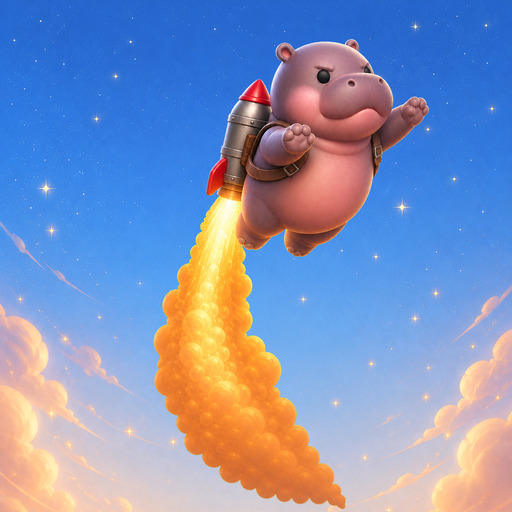
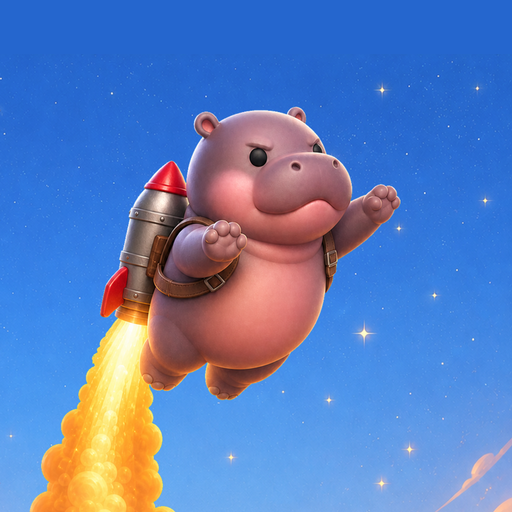
deploy: アプリアイコンのカバ中央化＋版スタンプ非表示を公開反映
- icon-192/512・favicon-32を、カバが中央に来る版へ差し替え(maskable円形クロップで頭が見切れないように)。
- index.htmlの版スタンプをdebug時のみ表示に(通常/公開では非表示)。

diff --git a/index.html b/index.html
@@ -3338,11 +3338,12 @@ function loop(now){
       ctx.fillText('🚀', W/2, H/2 - (h-0.5)*120); ctx.textBaseline='alphabetic';
     }
     ctx.restore(); }
-  if(debug.on) drawDebug();
-  // ★版スタンプ(最新版を見ているか確認用)。右下に。黒フチ付きで明るい空でも確実に読める(古い版キャッシュの切り分け用)
-  ctx.save(); ctx.font='bold 12px system-ui'; ctx.textAlign='right'; ctx.textBaseline='alphabetic';
-  ctx.lineWidth=3; ctx.strokeStyle='rgba(0,0,0,0.8)'; ctx.strokeText('build '+BUILD, W-6, H-7);
-  ctx.fillStyle='#fff'; ctx.fillText('build '+BUILD, W-6, H-7); ctx.restore();
+  if(debug.on){ drawDebug();
+    // ★版スタンプ＝デバッグ時だけ右下に(通常/公開では非表示。キャッシュ切り分けが要る時だけdebug.onで確認)
+    ctx.save(); ctx.font='bold 12px system-ui'; ctx.textAlign='right'; ctx.textBaseline='alphabetic';
+    ctx.lineWidth=3; ctx.strokeStyle='rgba(0,0,0,0.8)'; ctx.strokeText('build '+BUILD, W-6, H-7);
+    ctx.fillStyle='#fff'; ctx.fillText('build '+BUILD, W-6, H-7); ctx.restore();
+  }
   requestAnimationFrame(loop);
 }
 function die(cause){ if(dead)return; dead=true; deathCause=cause||'hit'; best=Math.max(best,Math.floor(alt)); pressed=false;
